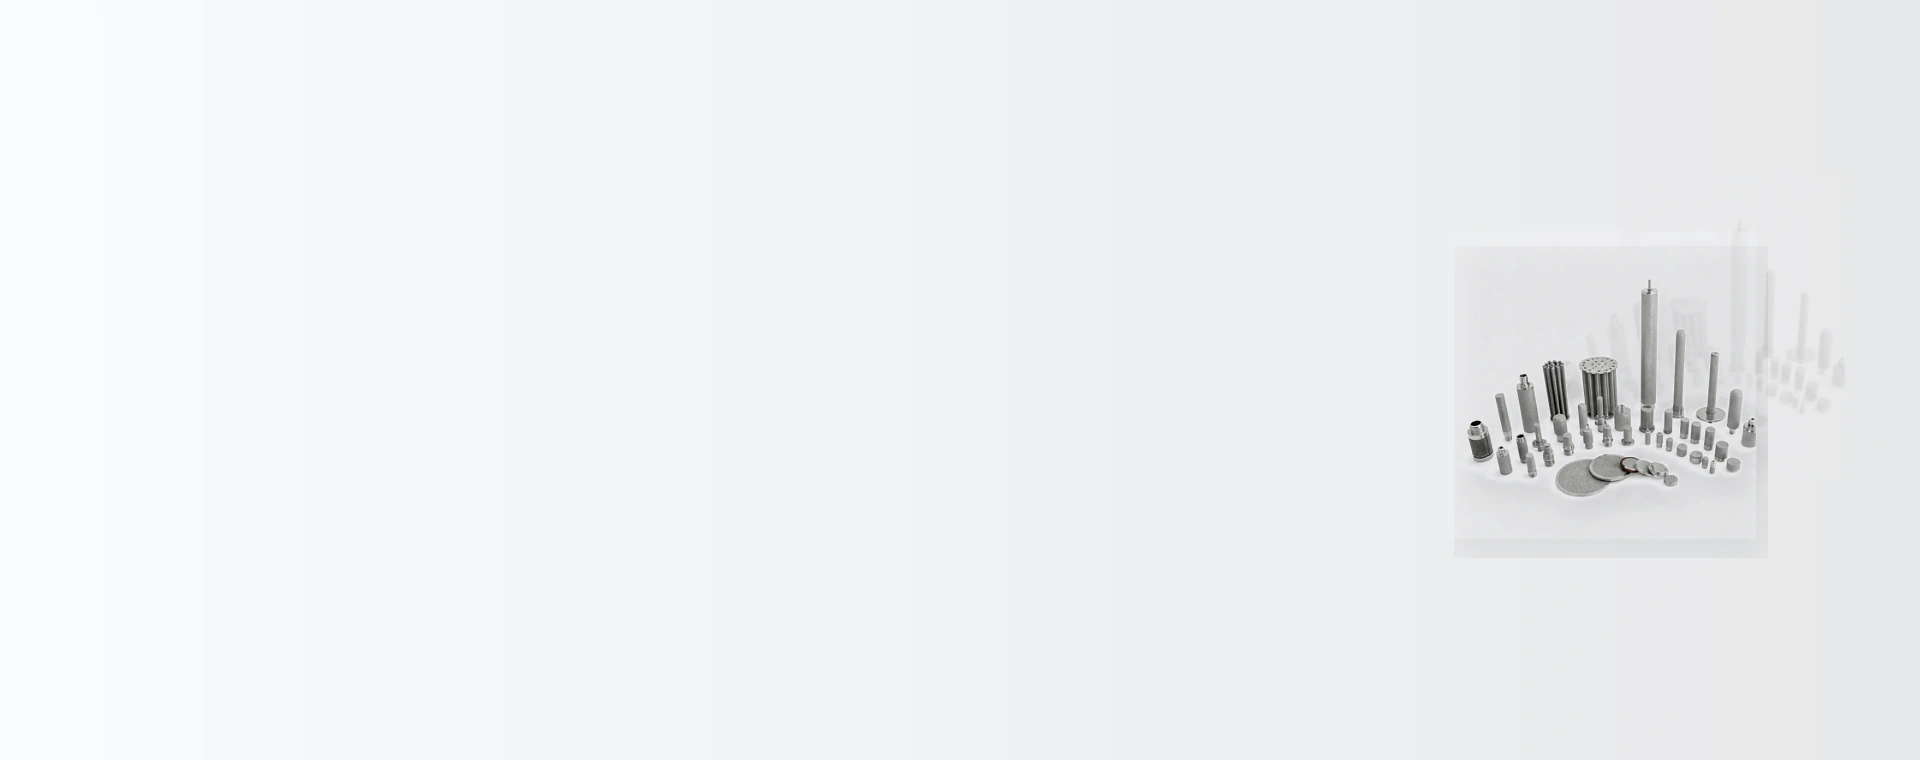
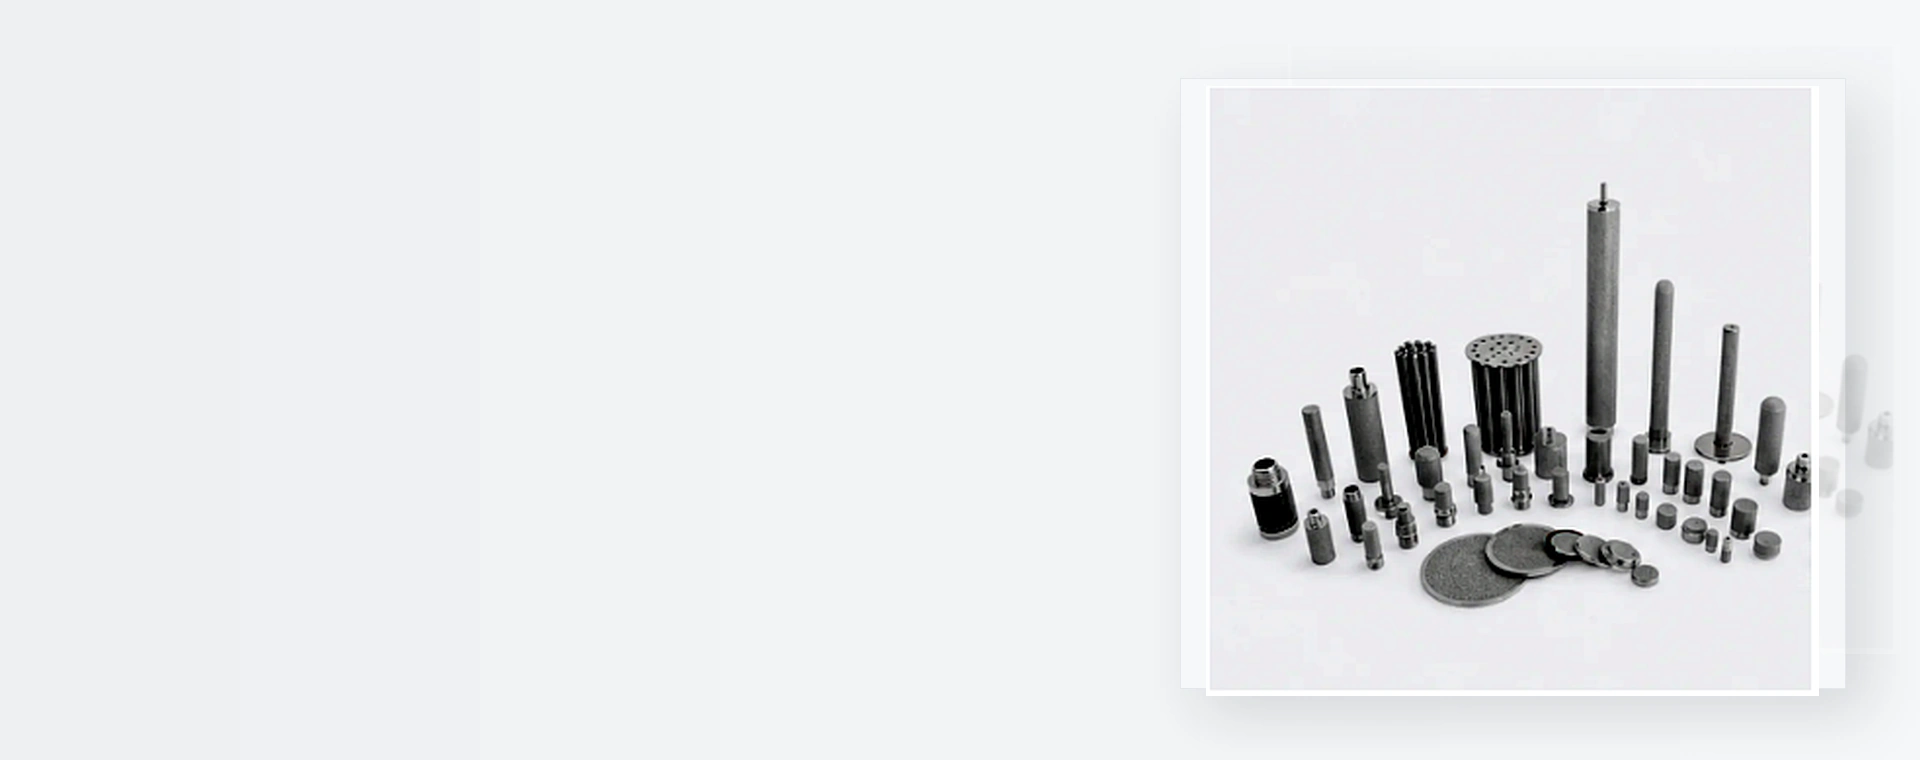
优化配件背景和入口文案

Changed region(s): [[0.625, 0.2421, 0.9688, 0.8171], [0.9688, 0.575, 1.0, 0.6053]]

diff --git a/src/data/accessories/copy.ts b/src/data/accessories/copy.ts
@@ -8,7 +8,7 @@ export const accessoryCopy = {
     homeLead: "Поставляем защиту зондов, спечённые фильтрующие элементы, газовые фильтры и компоненты регулирования потока для линий точки росы, влажности, кислорода и технологического газа.",
     overviewTitle: "Каталог комплектующих",
     overviewLead: "Выберите группу комплектующих. Для подбора укажите прибор, газ или среду, давление, расход, соединение, требуемый класс фильтрации или размер пор, допустимый перепад давления и количество.",
-    viewCategory: "Открыть группу",
+    viewCategory: "Подробнее",
     viewAccessory: "Подробнее",
     availableTitle: "Что можно заказать",
     selectionTitle: "Что указать для подбора",
@@ -26,8 +26,7 @@ export const accessoryCopy = {
     applicationsTitle: "Типовые применения",
     relatedTitle: "Связанные комплектующие",
     informationTitle: "Данные для запроса",
-    modelsLabel: "Модели",
-    modelsAvailable: "6 вариантов в каталоге"
+    modelsLabel: "Модели"
   },
   en: {
     nav: "Accessories",
@@ -36,7 +35,7 @@ export const accessoryCopy = {
     homeLead: "We supply probe protection, sintered filter elements, gas filters and flow-control components for dew-point, humidity, oxygen and process-gas measurement lines.",
     overviewTitle: "Accessories Catalog",
     overviewLead: "Choose an accessory group. For selection, provide the instrument, gas or medium, pressure, flow, connection, target filtration grade or pore size, allowable pressure drop and quantity.",
-    viewCategory: "Open category",
+    viewCategory: "View more",
     viewAccessory: "View details",
     availableTitle: "Available supply",
     selectionTitle: "Selection information",
@@ -54,7 +53,6 @@ export const accessoryCopy = {
     applicationsTitle: "Typical applications",
     relatedTitle: "Related accessories",
     informationTitle: "Information for quotation",
-    modelsLabel: "Models",
-    modelsAvailable: "6 catalog variants"
+    modelsLabel: "Models"
   }
 } satisfies Record<Locale, Record<string, string>>;

diff --git a/src/components/accessories/accessory-page-heading.tsx b/src/components/accessories/accessory-page-heading.tsx
@@ -12,8 +12,12 @@ type Props = {
 export function AccessoryPageHeading({ title, lead, image, eyebrow, actionHref, actionLabel }: Props) {
   return (
     <section className="relative isolate overflow-hidden bg-steel px-5 py-16 text-white md:px-10 md:py-20">
-      <img className="absolute inset-0 -z-20 h-full w-full object-cover opacity-25" src={image} alt="" aria-hidden="true" />
-      <div className="absolute inset-0 -z-10 bg-[linear-gradient(90deg,rgba(20,31,42,.96),rgba(20,31,42,.72))]" aria-hidden="true" />
+      <img className="absolute inset-0 -z-20 h-full w-full object-cover opacity-70" src={image} alt="" aria-hidden="true" />
+      <div
+        className="absolute inset-0 -z-10"
+        style={{ background: "linear-gradient(90deg, rgba(20, 31, 42, 0.96) 0%, rgba(20, 31, 42, 0.9) 42%, rgba(20, 31, 42, 0.45) 68%, rgba(20, 31, 42, 0.18) 100%)" }}
+        aria-hidden="true"
+      />
       <div className="mx-auto max-w-7xl">
         {eyebrow ? <p className="eyebrow !text-slate-300">{eyebrow}</p> : null}
         <h1 className="mt-3 max-w-4xl text-4xl font-black leading-tight md:text-6xl">{title}</h1>

diff --git a/src/components/accessories/accessory-category-page.tsx b/src/components/accessories/accessory-category-page.tsx
@@ -14,7 +14,7 @@ export function AccessoryCategoryPage({ category, products, locale }: { category
   const path = `/accessories/${category.slug}`;
   return (
     <PageShell locale={locale} active="catalog" languagePath={localizedPath(oppositeLocale(locale), path)}>
-      <AccessoryPageHeading eyebrow={c.modelsAvailable} title={category.title[locale]} lead={category.intro[locale]} image={category.image} />
+      <AccessoryPageHeading eyebrow={c.availableTitle} title={category.title[locale]} lead={category.intro[locale]} image={category.image} />
       <section className="section">
         <div className="section-narrow">
           <div className="mb-10 grid gap-6 border-y border-line py-7 lg:grid-cols-[260px_1fr]">

diff --git a/src/components/accessories/accessory-cards.tsx b/src/components/accessories/accessory-cards.tsx
@@ -15,7 +15,7 @@ export function AccessoryCategoryCard({ category, locale }: { category: Accessor
       <div className="flex flex-1 flex-col p-4">
         <h3 className="text-lg font-black leading-6">{category.title[locale]}</h3>
         <p className="mt-2 text-sm leading-6 text-muted">{category.summary[locale]}</p>
-        <p className="mt-auto pt-4 text-sm font-bold uppercase text-accent">{c.modelsAvailable}</p>
+        <p className="mt-auto pt-4 text-sm font-bold uppercase text-accent">{c.viewCategory}</p>
       </div>
     </Link>
   );
